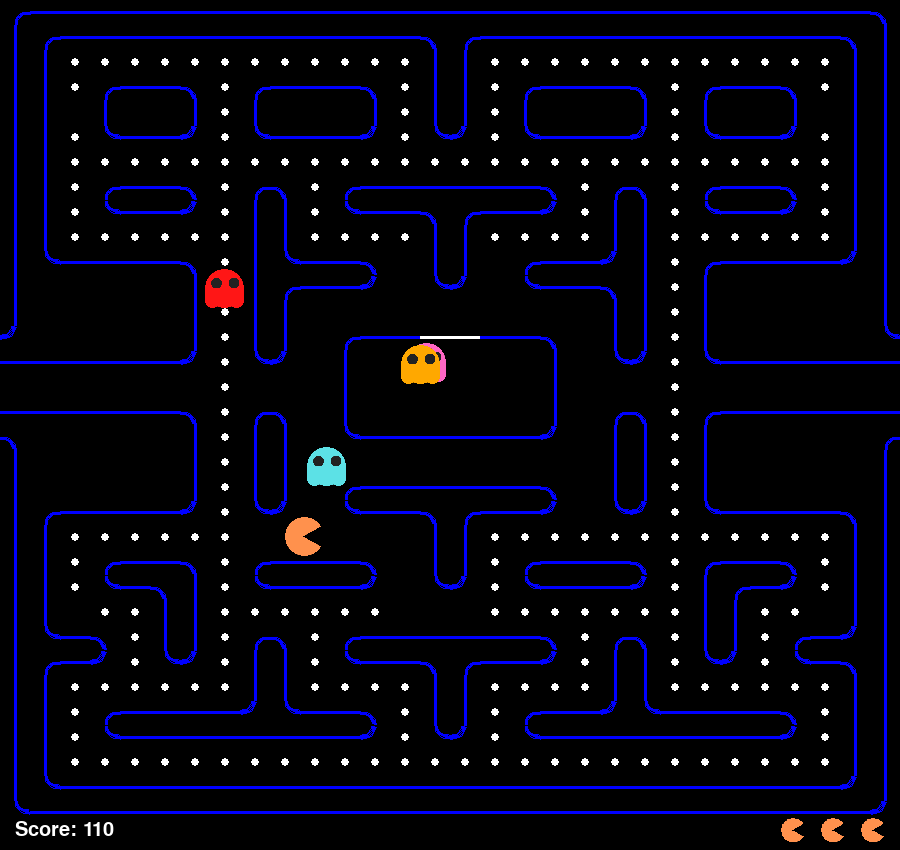
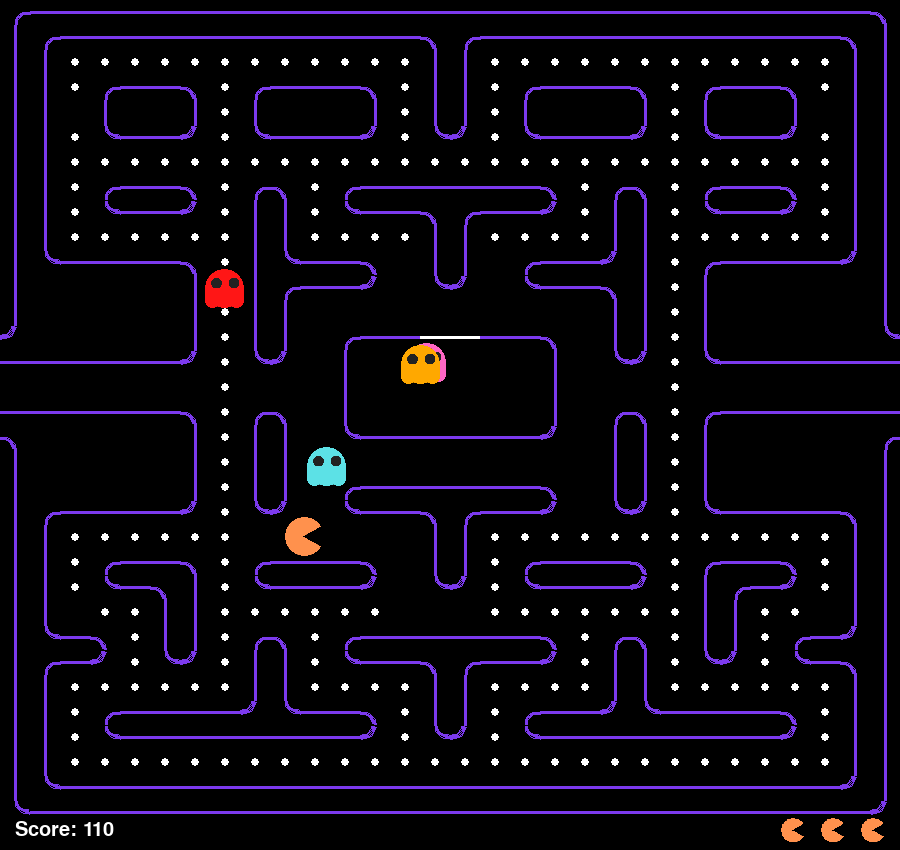
feat: custom title screen and buttons, violet maze
Replaces the official PAC-MAN logo artwork and clip-art buttons with an original title screen, centers the menu buttons and draws the maze walls in violet. README screenshots and GIF regenerated.

diff --git a/pacman/pacman.py b/pacman/pacman.py
@@ -16,7 +16,7 @@ timer = pygame.time.Clock()
 fps = 60
 font = pygame.font.Font('freesansbold.ttf', 20)
 level = copy.deepcopy(boards)
-color = 'blue'
+color = '#7c3aed'
 PI = math.pi
 player_images = []
 for i in range(1, 5):
@@ -73,8 +73,8 @@ connection=sqlite3.connect("Score.db")
 cursor=connection.cursor()
 time=time.time()
 date=str(datetime.datetime.fromtimestamp(time).strftime("%D %H.%M.%S"))
-start_button = menu.Button(373, 440, start_img, 0.9)
-exit_button = menu.Button(380, 520, exit_img, 0.9)
+start_button = menu.Button(354, 440, start_img, 0.9)
+exit_button = menu.Button(361, 520, exit_img, 0.9)
 
 class Ghost:
     def __init__(self, x_coord, y_coord, target, speed, img, direct, dead, box, id):

diff --git a/README.md b/README.md
@@ -72,4 +72,4 @@ How each ghost reaches its target is what gives it a personality. `move_blinky`,
 
 ## 🙏 Credits
 
-Based on [LeMaster Tech](https://www.youtube.com/@lemastertech)'s Pygame Pac-Man tutorial, extended with a start menu and a SQLite high-score table.
+Based on [LeMaster Tech](https://www.youtube.com/@lemastertech)'s Pygame Pac-Man tutorial, extended with a start menu and a SQLite high-score table. The title screen and buttons are custom artwork, and the maze uses a violet palette.
